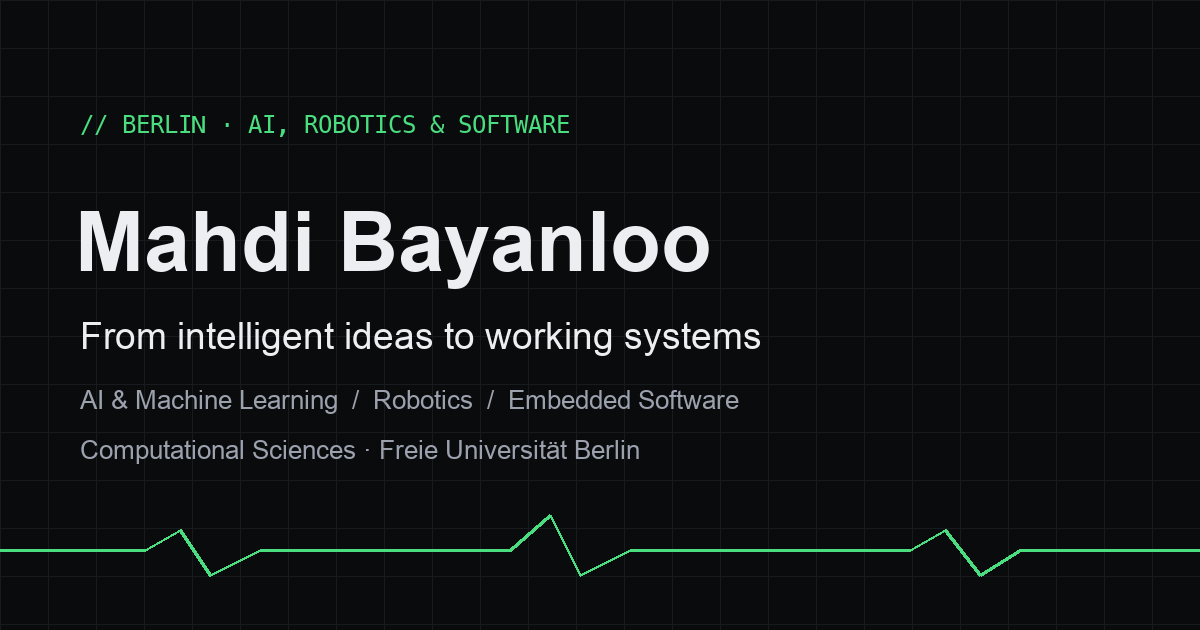
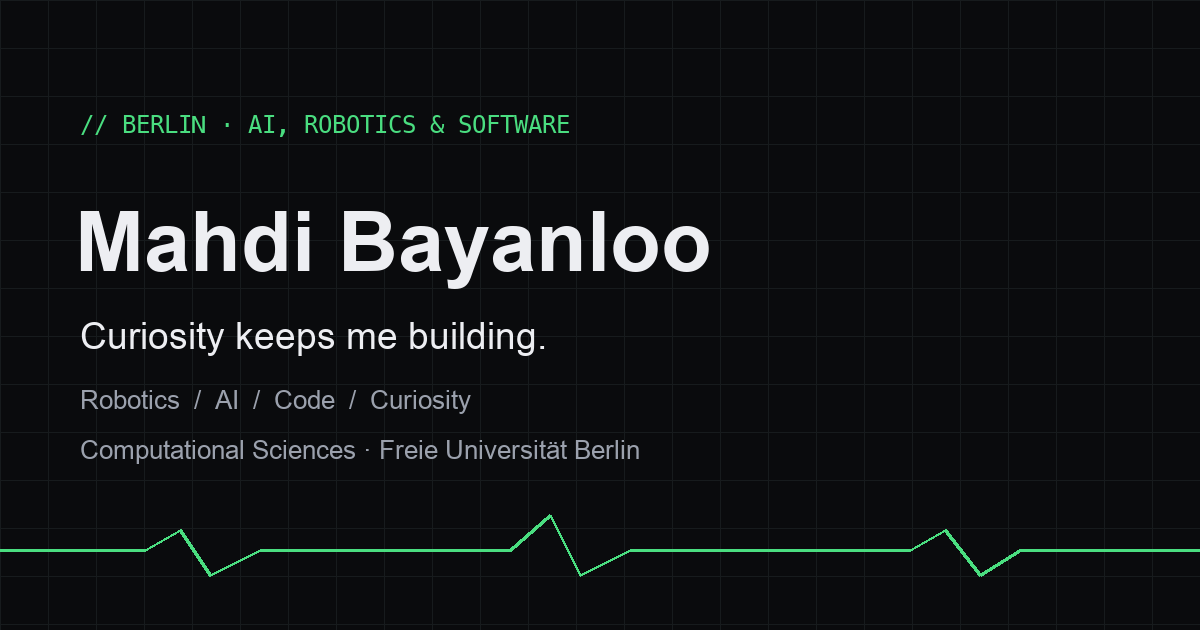
Make the landing page personal and remove work availability

Changed region(s): [[0.0617, 0.5127, 0.6475, 0.573], [0.0617, 0.6032, 0.6167, 0.6635]]

diff --git a/content/resume.ts b/content/resume.ts
@@ -34,15 +34,14 @@ export const identity = {
   name: "Mahdi Bayanloo",
   role: "AI, Robotics & Embedded Software",
   location: "Berlin, Germany",
-  headline: "From intelligent ideas to working systems",
+  headline: "Curiosity keeps me building.",
   tagline:
-    "AI & Machine Learning | Robotics | Embedded Software | Data & Automation",
+    "Robotics | AI | Code | Curiosity",
   message:
     "Sense. Reason. Act. Test. The interesting part is making it all work together.",
   subline:
-    "Berlin-based engineer and Computational Sciences master's student connecting AI, robotics, embedded systems, and reproducible evaluation.",
+    "I'm into robots, AI, and making ideas do something in the real world. Sometimes that means code. Sometimes it means a robot fight.",
   email: "mahdibayanloo1379@gmail.com",
-  availability: "Available immediately · 20 hours/week",
   // Keep phone and role-specific CVs off the public site.
   links: {
     linkedin: "https://www.linkedin.com/in/mahdi-bayanloo-2b7317215/",
@@ -338,7 +337,7 @@ export const languages = [
 export const about = {
   // Personal context, kept distinct from professional project claims.
   paragraph:
-    "I'm an engineer in Berlin who likes working where software meets the real world. My experience connects embedded firmware, robotics research, vehicle-software validation, and AI-assisted engineering. I'm studying Computational Sciences at Freie Universität Berlin, bringing computer science, applied mathematics, and physics into the same toolbox. My RV Tech internship finished at the end of September 2026; I'm now looking for my next working-student opportunity in AI, data, robotics, or software engineering.",
+    "I'm Mahdi, based in Berlin. I'm fascinated by what happens when code meets the physical world: a robot moving, a sensor making sense of its surroundings, or an AI idea becoming something I can actually test. I study Computational Sciences at Freie Universität Berlin, where I get to work across computer science, applied mathematics, and physics.",
   arc: "Teaching programming → robotics team leadership → embedded systems → research & sensor data → AI-assisted firmware → software integration.",
   interests: "Outside work: building combat robots with my team, motorcycle riding, and guitar. I like projects that give me something to figure out—and something to build.",
 };

diff --git a/components/sections/Hero.tsx b/components/sections/Hero.tsx
@@ -23,10 +23,9 @@ export function Hero() {
                 <span key={part}>{part}{i < arr.length - 1 && <span className="mx-2 text-signal">/</span>}</span>
               ))}
             </p>
-            <p className="mt-5 font-mono text-xs text-signal">{identity.availability}</p>
             <div className="mt-7 flex flex-wrap items-center gap-3">
-              <a href="#projects" className="rounded-full bg-signal px-6 py-3 font-medium text-bg transition-transform duration-200 hover:-translate-y-0.5">Explore my work</a>
-              <a href={identity.links.linkedin} target="_blank" rel="noopener noreferrer" className="rounded-full border border-line px-6 py-3 font-medium text-fg transition-colors duration-200 hover:border-dim">LinkedIn ↗</a>
+              <a href="#projects" className="rounded-full bg-signal px-6 py-3 font-medium text-bg transition-transform duration-200 hover:-translate-y-0.5">Explore my projects</a>
+              <a href={identity.links.github} target="_blank" rel="noopener noreferrer" className="rounded-full border border-line px-6 py-3 font-medium text-fg transition-colors duration-200 hover:border-dim">GitHub ↗</a>
             </div>
           </div>
           <div className="relative mx-auto w-full max-w-3xl">

diff --git a/components/sections/Contact.tsx b/components/sections/Contact.tsx
@@ -7,7 +7,7 @@ export function Contact() {
       <div className="grid gap-10 md:grid-cols-2">
         <div>
           <p className="font-display max-w-md text-3xl font-bold leading-tight tracking-tight md:text-4xl">
-            Let&apos;s build something that proves itself.
+            Got something interesting in mind?
           </p>
           <ul className="mt-8 space-y-3">
             <li>
@@ -39,7 +39,6 @@ export function Contact() {
               </a>
             </li>
             <li className="tag-mono pt-2 text-dim">{identity.location}</li>
-            <li className="font-mono text-xs text-signal">{identity.availability}</li>
           </ul>
         </div>
 

diff --git a/README.md b/README.md
@@ -34,6 +34,7 @@ The previous site is preserved under [`legacy/`](legacy/).
 
 ## Content maintenance
 
+- This is a personal website for friends, fellow builders, and anyone curious—not a job-search landing page. Keep the introduction focused on Mahdi's interests and personality. Do not publish availability, weekly working hours, or job-seeking messages.
 - RV Tech internship: July–September 2026 (completed at the end of September).
 - M.Sc. Computational Sciences: current study, expected enrolment through 2028.
 - Section order: Work Experience, Selected Projects, Skills, Education, About, Contact. Keep experience ahead of projects.
